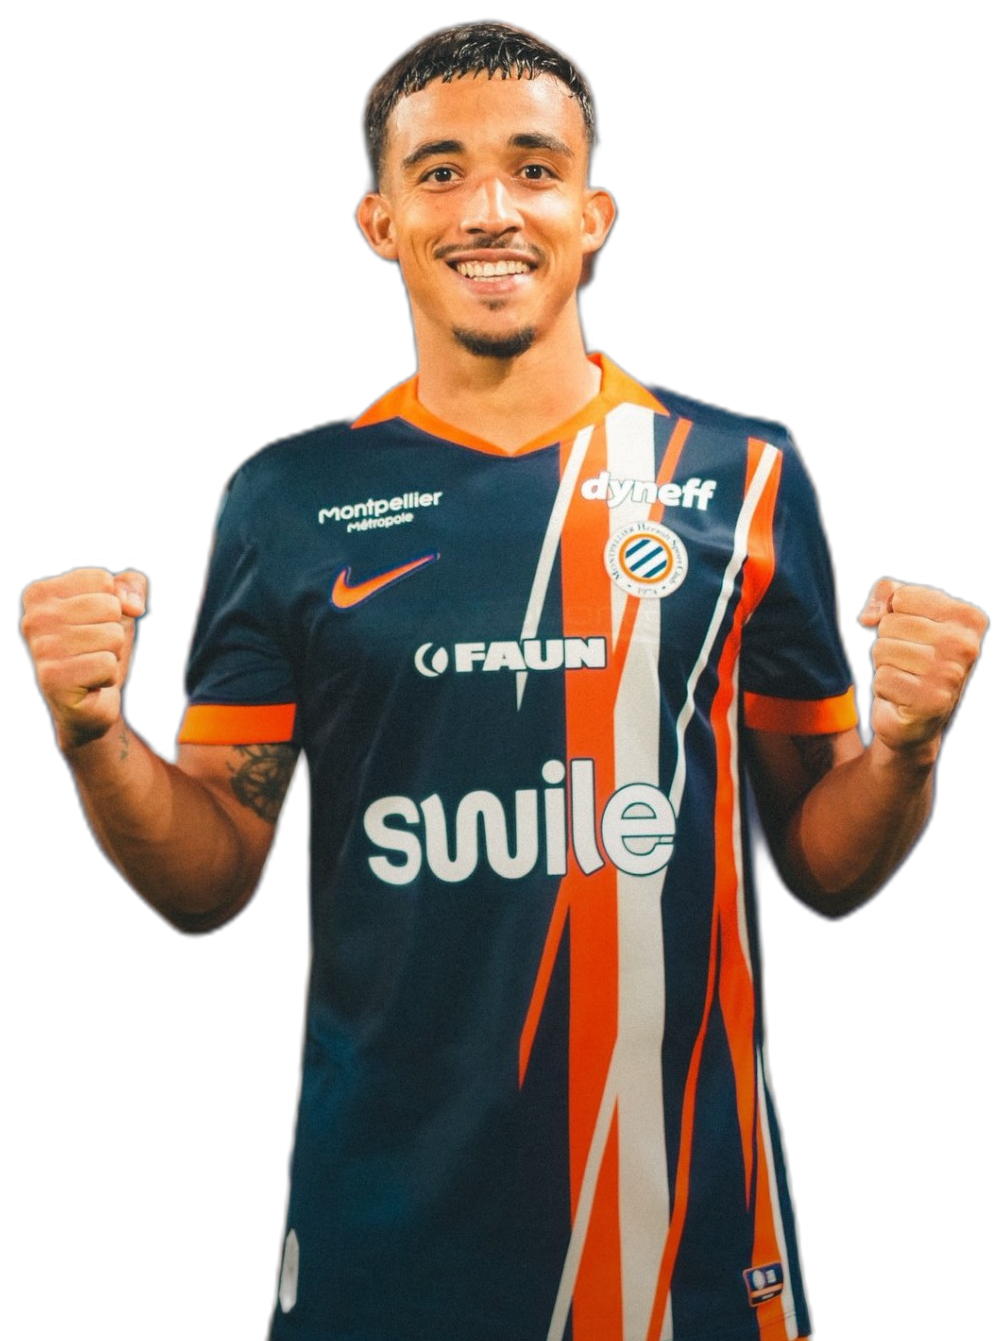
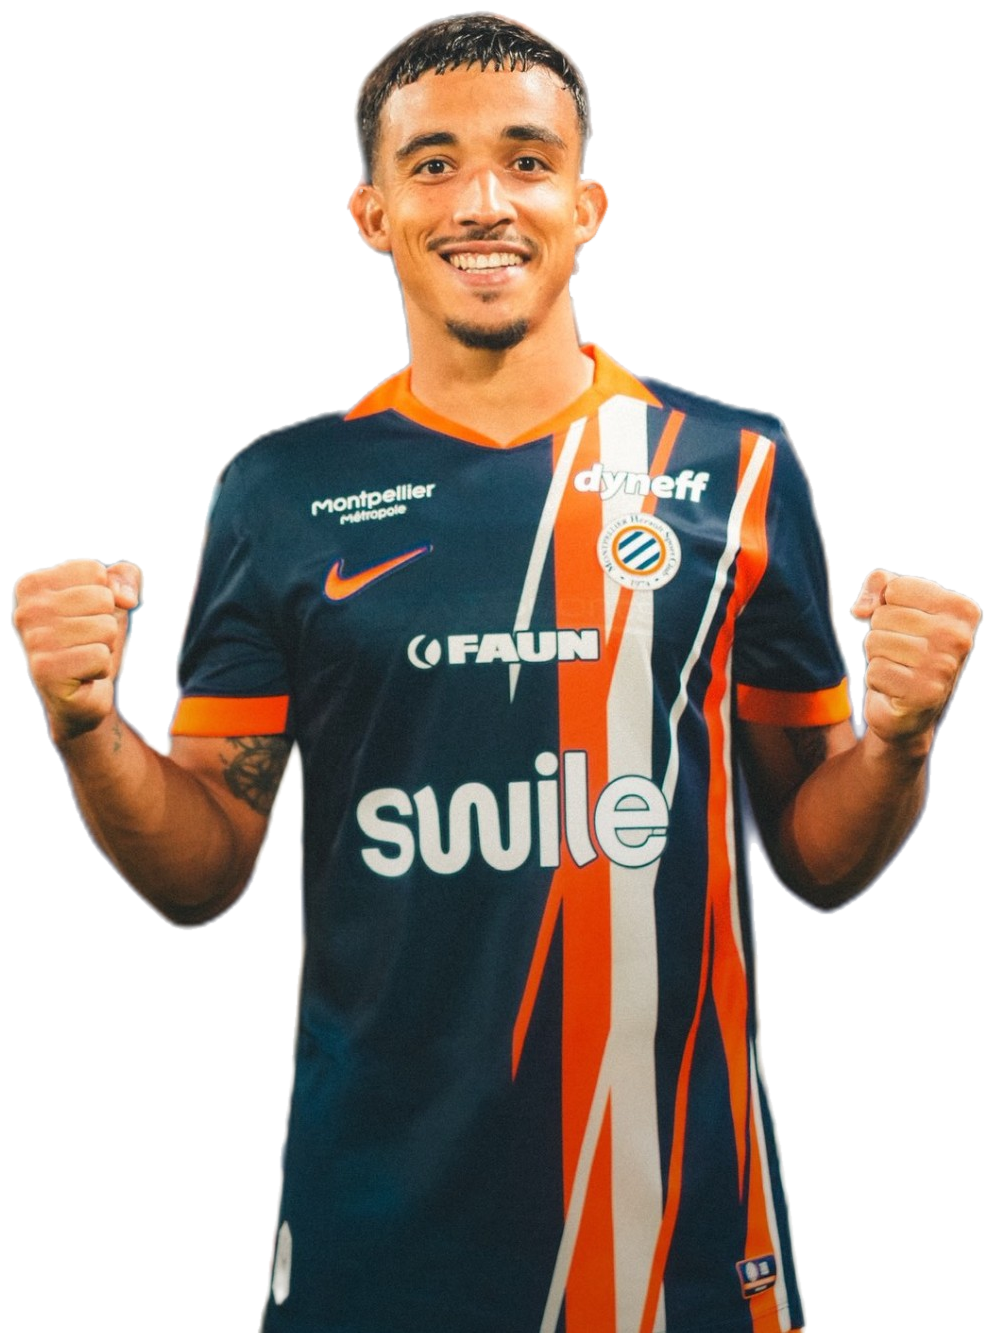
MHSC : détourage corrigé autour des oreilles de Théo Sainte-Luce
Le fond sombre gardé sous le lobe de l'oreille est retiré par clé de peau,
limitée au bord pour ne pas percer l'intérieur de l'autre oreille.

Claude-Session: https://claude.ai/code/session_015vv8CFobbzyzoP25xen2dF

diff --git a/.claude/skills/motion-retro-print/references/adaptation.md b/.claude/skills/motion-retro-print/references/adaptation.md
@@ -64,3 +64,7 @@
 - Écusson raster (webp) : version couleur pour la pastille, silhouette (`ecusson-mono.png`, tout sauf le blanc) teintée
   par `mask-image` pour le filigrane ton sur ton.
 - Mot centré : taille de police = min(560, 2150 / nombre de lettres) pour garder ≈ 880 px de large.
+- Détourage : `u2net_human_seg` gardait le fond sombre de la tribune sous le lobe de l'oreille (fond foncé + cheveux
+  foncés au même endroit). Correction par clé de peau dans la zone, **limitée au bord** (≤ 4 px de la transparence)
+  côté oreille dont l'intérieur est ombré, sinon la clé perce le creux de l'oreille ; ne pas faire monter la zone
+  dans les cheveux. Toujours vérifier les deux oreilles en gros plan (×3) sur les deux couleurs de fond.
